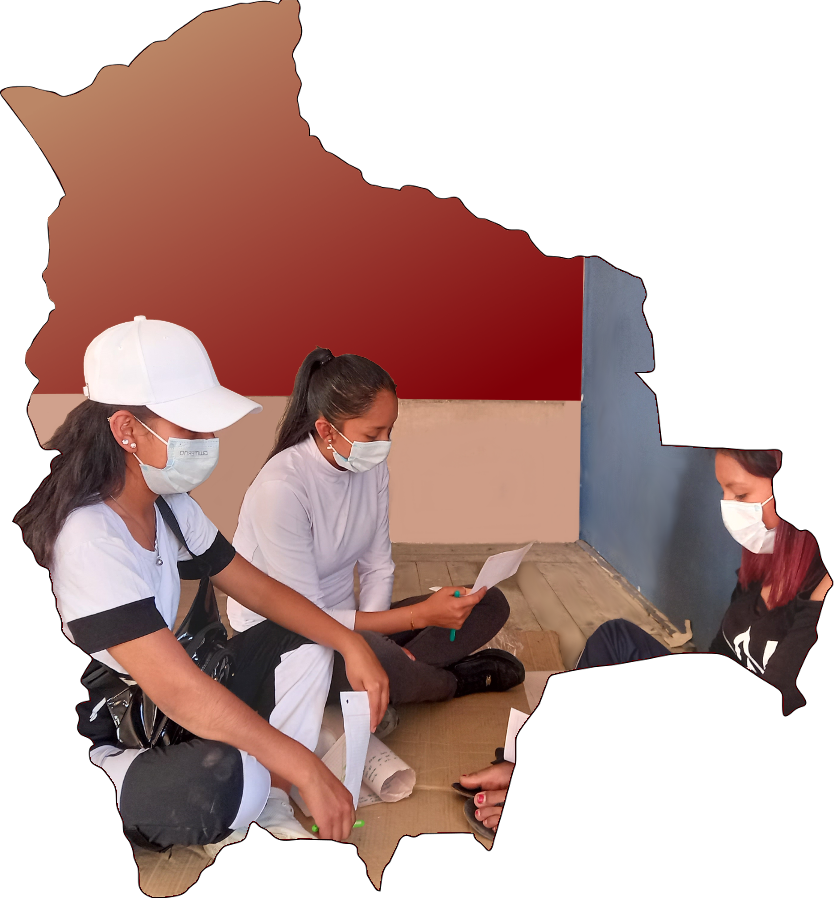
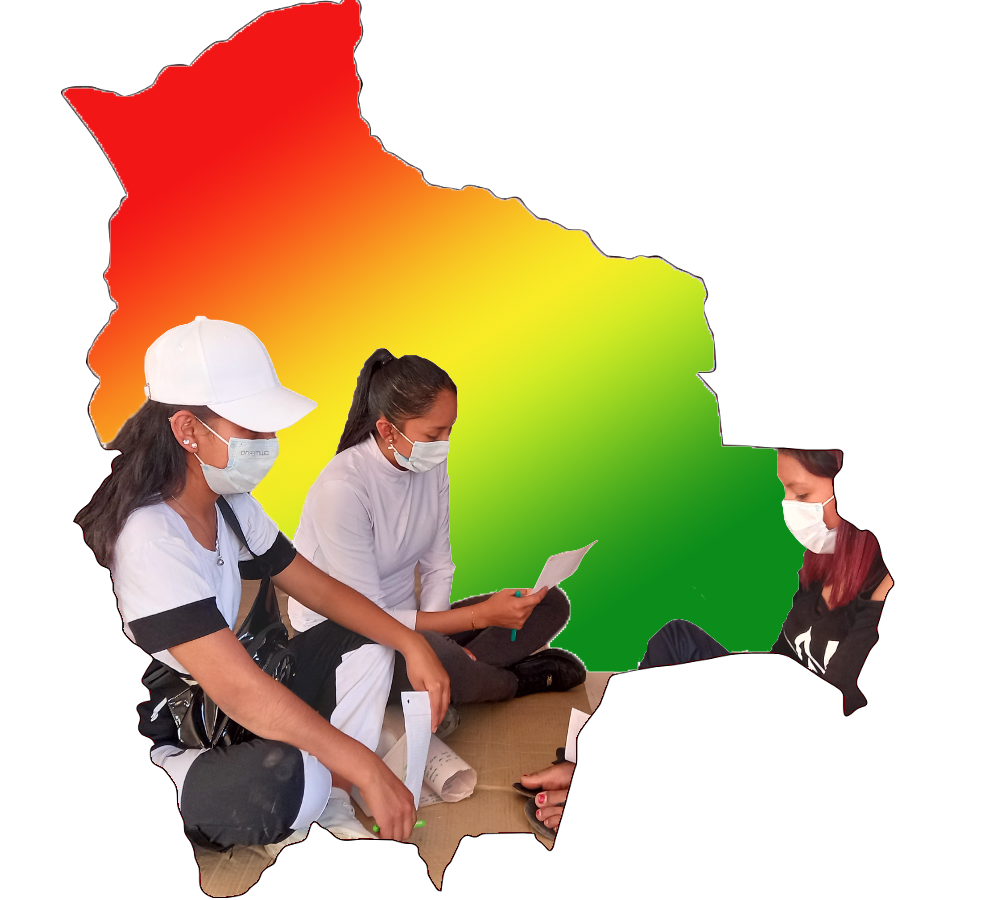
correciones e imagen bol

diff --git a/css/styles.css b/css/styles.css
@@ -296,7 +296,7 @@ header .sun {
   background-image: url(../images/sunlogo.svg);
   background-repeat: no-repeat;
   background-size: 100%;
-  z-index: 1;
+  z-index: -1;
 }
 
 header .slide {
@@ -480,7 +480,7 @@ header .slide .img-b img.slider {
   position: relative;
   border-radius: 50%;
   z-index: 2;
-  /* border: 1px dashed #fff; */
+  padding: 1em;
 }
 
 .about .row .col-img img.cbba {
@@ -526,7 +526,7 @@ header .slide .img-b img.slider {
 .about .row p.frase {
   position: absolute;
   left: 23%;
-  top: 0%;
+  top: -14%;
   font-size: 1.1em;
   color: #303030;
   font-style: italic;
@@ -1353,7 +1353,7 @@ footer .dev {
 .dpersonal .content .dos h1 {
   font-size: 3em;
   font-weight: 500;
-  color: #fff;
+  color: #303030;
   text-transform: uppercase;
 }
 
@@ -1531,7 +1531,7 @@ footer .dev {
 .afamiliar .content .text .text-content h1 {
   font-size: 3em;
   font-weight: 500;
-  color: #fff;
+  color: #303030;
   text-transform: uppercase;
 }
 
@@ -1543,7 +1543,7 @@ footer .dev {
 .cap {
   height: 100vh;
   width: 100%;
-  background: linear-gradient(307deg, #ECFCFF 0%, #ECFCFF 40%, #F8AD1D calc(40% + 1px), #F8AD1D 60%, #3EE23E calc(60% + 1px), #3EE23E 72%, #800008 calc(72% + 1px), #800008 100%);
+  background: linear-gradient(111deg, #ECFCFF 0%, #ECFCFF 40%, #F8AD1D calc(40% + 1px), #F8AD1D 60%, #3EE23E calc(60% + 1px), #3EE23E 72%, #800008 calc(72% + 1px), #800008 100%);
 }
 
 .cap .content {
@@ -1578,18 +1578,18 @@ footer .dev {
 
 .cap .content .left .text {
   width: 80%;
-  text-shadow: #6b6868 1px 1px 0px;
+  /* text-shadow: #6b6868 1px 1px 0px; */
+  color: #303030;
 }
 
 .cap .content .left .text h1 {
   font-size: 3em;
   font-weight: 500;
-  color: #fff;
   text-transform: uppercase;
 }
 
 .cap .content .left .text p {
-  color: #fff;
+  /* color: #fff; */
   width: 80%;
 }
 

diff --git a/css/_acap.scss b/css/_acap.scss
@@ -1,7 +1,7 @@
 .cap{
     height: 100vh;
     width: 100%;
-    background: linear-gradient(307deg, #ECFCFF 0%, #ECFCFF 40%, $orange calc(40% + 1px), $orange 60%, $green calc(60% + 1px), $green 72%, $brownred calc(72% + 1px), $brownred 100%);
+    background: linear-gradient(111deg, #ECFCFF 0%, #ECFCFF 40%, $orange calc(40% + 1px), $orange 60%, $green calc(60% + 1px), $green 72%, $brownred calc(72% + 1px), $brownred 100%);
 
     .content{
         width: inherit;
@@ -18,16 +18,16 @@
             flex: 50%;
             .text{
                 width: 80%;
-                text-shadow: #6b6868 1px 1px 0px;
+                /* text-shadow: #6b6868 1px 1px 0px; */
+                color: $black;
                 h1{
                     font-size: 3em;
                     font-weight: 500;
-                    color: #fff;
                     text-transform: uppercase;
                 }
 
                 p{
-                    color: #fff;
+                    /* color: #fff; */
                     width: 80%;
                 }
             }

diff --git a/css/_about.scss b/css/_about.scss
@@ -38,7 +38,7 @@
             position: relative;
             border-radius: 50%;
             z-index: 2;
-            /* border: 1px dashed #fff; */
+            padding: 1em;
 
             img.cbba{
                 max-width: 450px;
@@ -72,7 +72,7 @@
         p.frase{
             position: absolute;
             left: 23%;
-            top: 0%;
+            top: -14%;
             font-size: 1.1em;
             color: $black;
             font-style: italic;

diff --git a/css/_afamiliar.scss b/css/_afamiliar.scss
@@ -63,7 +63,7 @@
                 h1{
                     font-size: 3em;
                     font-weight: 500;
-                    color: #fff;
+                    color: $black;
                     text-transform: uppercase;
                 }
     

diff --git a/css/_dpersonal.scss b/css/_dpersonal.scss
@@ -58,7 +58,7 @@
             h1{
                 font-size: 3em;
                 font-weight: 500;
-                color: #fff;
+                color: $black;
                 text-transform: uppercase;
             }
             p{

diff --git a/css/_header.scss b/css/_header.scss
@@ -27,7 +27,7 @@ header{
         background-image: url(../images/sunlogo.svg);
         background-repeat: no-repeat;
         background-size: 100%;
-        z-index: 1;
+        z-index: -1;
     }
 
     .slide{
